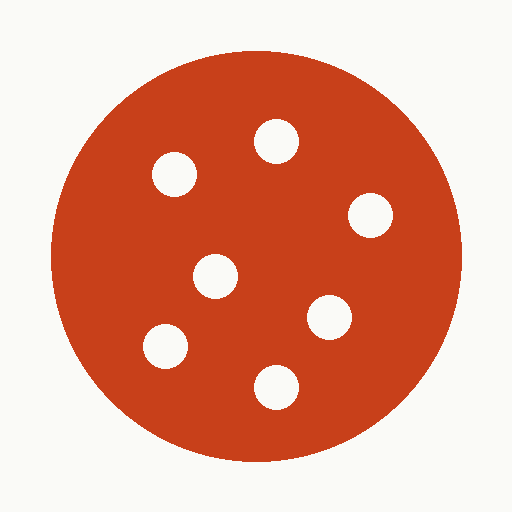
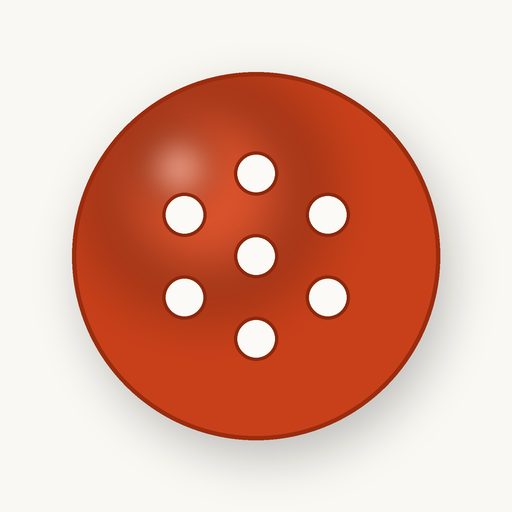
Add files via upload

Changed region(s): [[0.0938, 0.0938, 0.9062, 0.9375], [0.5938, 0.5312, 0.6875, 0.6875]]

diff --git a/service-worker.js b/service-worker.js
@@ -1,4 +1,4 @@
-const CACHE = 'drill-lab-v5';
+const CACHE = 'drill-lab-v6';
 const ASSETS = [
   './',
   './index.html',

diff --git a/style.css b/style.css
@@ -9,7 +9,7 @@ body {
   min-height: 100dvh;
   font-size: 15px;
   line-height: 1.5;
-  padding-bottom: calc(72px + env(safe-area-inset-bottom));
+  padding-bottom: calc(96px + env(safe-area-inset-bottom));
   -webkit-font-smoothing: antialiased;
 }
 